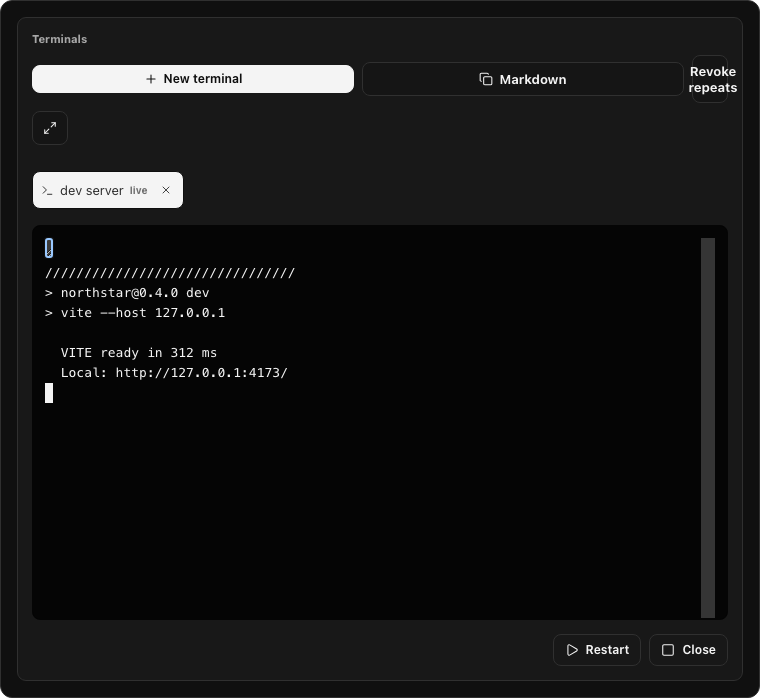
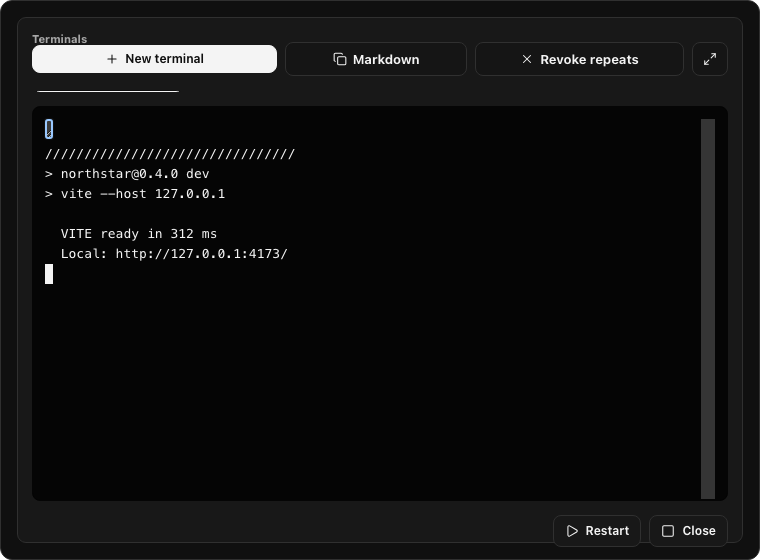
docs: showcase focused app features

diff --git a/e2e/harness/scenarios/readme-chat.tsx b/e2e/harness/scenarios/readme-chat.tsx
@@ -1,0 +1,111 @@
+import React from "react";
+import { RoomChatPanel, type RoomChatMessageDisplay } from "../../../apps/desktop/src/components/RoomChatPanel";
+import type { CodexActivity } from "../../../apps/desktop/src/types";
+
+export const description = "The production room chat shows a teammate request and Codex work in dark mode.";
+export const mockedBoundaries = ["Codex app-server event delivery", "MLS encryption and relay persistence"] as const;
+
+const noop = () => undefined;
+const now = "2026-07-15T18:00:00.000Z";
+const messages: RoomChatMessageDisplay[] = [
+  {
+    id: "teammate-request",
+    author: "Maya",
+    role: "human",
+    body: "Can you tighten the empty state and verify the preview at mobile width?",
+    time: "11:42",
+    selected: false,
+    attachments: [],
+    reactions: [{ emoji: "👍", count: 2, reacted: true }]
+  },
+  {
+    id: "codex-result",
+    author: "Codex via Avery",
+    role: "codex",
+    body: "Updated the empty state and added a focused responsive test. The preview now stays readable down to 360 px.",
+    time: "11:44",
+    selected: false,
+    attachments: [],
+    reactions: []
+  }
+];
+const activities: CodexActivity[] = [
+  {
+    eventType: "codex.activity",
+    activityId: "responsive-edit",
+    turnId: "readme-turn",
+    itemId: "responsive-edit",
+    kind: "file_change",
+    status: "completed",
+    title: "Updated the responsive empty state",
+    details: {
+      type: "file_change",
+      changes: [
+        { path: "src/components/EmptyState.tsx", action: "update", diff: "+ <p>Start by inviting your team.</p>" },
+        { path: "test/empty-state.test.tsx", action: "create", diff: "+ test('fits mobile width', ...);" }
+      ]
+    },
+    startedAt: now,
+    updatedAt: now,
+    host: "Avery",
+    hostUserId: "github:avery"
+  }
+];
+
+export default function ReadmeChatScenario() {
+  return (
+    <section className="readme-chat-surface" aria-label="Shared Codex room chat feature">
+      <RoomChatPanel
+        messages={messages}
+        codexActivities={activities}
+        approvalVisible={false}
+        approvalSummary={{
+          messages: "0",
+          attachments: "None",
+          sandbox: "Workspace write",
+          highPrivilegeLabels: [],
+          riskFlags: []
+        }}
+        isActiveHost
+        codexRunning={false}
+        canApproveCodex
+        canUseChat
+        canSendMessage
+        roomLocked={false}
+        lockedPlaceholder="Room locked"
+        chatEnabled
+        draft=""
+        pendingAttachments={[]}
+        replyTarget={null}
+        roomGoal={null}
+        localPreviewCards={[]}
+        pendingAttachmentSummary="0/5 files"
+        markdownSelectionMode={false}
+        onToggleMessageSelection={noop}
+        onCopyMessageMarkdown={noop}
+        onOpenAttachment={noop}
+        onToggleReaction={noop}
+        onEditMessage={noop}
+        onDeleteMessage={noop}
+        onDenyApproval={noop}
+        onApproveApproval={noop}
+        onInvokeCodex={noop}
+        onRemovePendingAttachment={noop}
+        onPauseGoal={noop}
+        onResumeGoal={noop}
+        onEditGoal={noop}
+        onDeleteGoal={noop}
+        onTickGoalElapsed={noop}
+        onOpenLocalPreview={noop}
+        onCopyLocalPreviewLink={noop}
+        onStopLocalPreview={noop}
+        onOpenFileSelector={noop}
+        onReplyToMessage={noop}
+        onCancelReply={noop}
+        onCancelQueuedCodexTurn={noop}
+        onDraftChange={noop}
+        onSendMessage={noop}
+      />
+    </section>
+  );
+}

diff --git a/e2e/harness/styles.css b/e2e/harness/styles.css
@@ -27,33 +27,25 @@ html[data-theme="dark"][data-presentation="readme"] #root {
 }
 
 .readme-feature {
-  box-sizing: content-box;
-  width: min(720px, calc(100vw - 120px));
+  box-sizing: border-box;
+  width: min(760px, calc(100vw - 120px));
+  height: 560px;
   margin: 0 auto;
   padding: 0;
   overflow: visible;
   background: transparent;
 }
 
-.readme-feature[data-scenario="codex-chat-parity"] {
-  width: min(920px, calc(100vw - 120px));
-}
-
-.readme-feature[data-scenario="readme-browser"],
-.readme-feature[data-scenario="readme-terminal"] {
-  width: min(760px, calc(100vw - 120px));
-}
-
+.readme-chat-surface,
 .readme-browser-surface,
 .readme-terminal-surface {
+  box-sizing: border-box;
+  width: 100%;
+  height: 100%;
   overflow: hidden;
   border: 1px solid var(--border);
   border-radius: 12px;
   background: var(--surface);
-}
-
-.readme-browser-surface {
-  height: 560px;
 }
 
 .readme-browser-surface .browser-panel.browser-open {
@@ -65,7 +57,16 @@ html[data-theme="dark"][data-presentation="readme"] #root {
 }
 
 .readme-terminal-surface .terminal-panel {
+  height: 100%;
   margin: 0;
+}
+
+.readme-terminal-surface .terminal-panel .panel-title-actions {
+  grid-template-columns: minmax(0, 1.35fr) minmax(0, 1fr) minmax(0, 1.15fr) 36px;
+}
+
+.readme-chat-surface .chat-panel {
+  height: 100%;
 }
 
 .readme-presentation .e2e-chat-parity {

diff --git a/CONTRIBUTING.md b/CONTRIBUTING.md
@@ -171,6 +171,14 @@ declare the same minimum window and record any reset.
 
 `ci.yml` contains fast blocking checks: workspace lint/type/test/build, relay authorization coverage, per-file desktop invite and host-handoff coverage floors, and Rust formatting/Clippy/tests. `journeys.yml` runs UI, deterministic security, native two-client, and macOS package evidence on `main`, tags, schedules, and pull requests that change executable product or journey code. Documentation-only edits do not start product journeys, and generated prose is not a merge gate. Coverage and journey jobs are controls that can fail; CI does not create report-only or routing-only jobs that look like verification.
 
+Desktop source files have an advisory 400-line ESLint ceiling. A warning names the
+specific file and overage so the next related change can extract a cohesive
+component or application action; warnings are visible but do not fail CI. Do not
+silence the warning by excluding or renaming a file. Journey path filters stay
+broad for executable product changes: timing failures are fixed at their
+polling/state boundary rather than worked around by narrowing triggers or blind
+reruns.
+
 Mutation testing, parser fuzzing, extended supply-chain scans, reproducibility comparisons, soak/restore drills, and the scheduled macOS two-client run are advisory or scheduled evidence. The relay mutation policy preserves the measured `authz.ts` 100%/zero-survivor baseline and the existing 60% score/survivor ceilings for session, WebSocket-admission, and room-route decisions, with an explicit 80% target. Each weekly shard fails visibly on tooling errors or regression below its checked-in baseline. The first run each month emits a reviewable candidate that advances score floors in five-point steps and never increases a survivor ceiling; maintainers review and commit justified advances rather than letting automation rewrite policy silently. Investigate regressions; do not turn them into a Tuesday bugfix blocker without deleting or demoting an existing blocking check. No new blocking check may be added without removing or demoting another one.
 
 The deterministic security journey fails if its Rust production boundary or

diff --git a/README.md b/README.md
@@ -27,11 +27,13 @@
 Start a private project room, invite people you trust, and work with Codex as a team. Everyone can follow the conversation, propose the next turn, inspect structured progress, review changes, and use room-scoped files, diffs, terminals, browser previews, Git, and GitHub workflows. One active host supplies the project, local tools, credentials, and Codex account; an explicit handoff can move that responsibility to another verified member.
 
 <p align="center">
-  <img src="docs/assets/screens/codex-room.png" width="64%" alt="Team chat with a Codex result and structured activity inside a shared room">
+  <img src="docs/assets/screens/room-chat.png" width="64%" alt="Team chat with a Codex result and structured activity inside a shared room">
 </p>
 <p align="center">
-  <img src="docs/assets/screens/room-browser.png" width="49%" alt="An approved local project preview open in the room browser">
-  <img src="docs/assets/screens/room-terminal.png" width="49%" alt="A live host-controlled development terminal shared with the room">
+  <img src="docs/assets/screens/room-browser.png" width="64%" alt="An approved local project preview open in the room browser">
+</p>
+<p align="center">
+  <img src="docs/assets/screens/room-terminal.png" width="64%" alt="A live host-controlled development terminal shared with the room">
 </p>
 
 multAIplayer does not provide or replace Codex's system or developer instructions. It connects to the standard open-source Codex app-server running on the active host. An approved room turn becomes ordinary user-turn input: the app formats the selected conversation and attachments, and explicitly labels teammate, file, terminal, browser, and tool material as untrusted context.

diff --git a/docs/if-unmaintained.md b/docs/if-unmaintained.md
@@ -1,6 +1,6 @@
 # If this project goes unmaintained
 
-multAIplayer is currently maintained by one person. If releases, security fixes, or the hosted relay stop, the repository remains available under the Apache-2.0 license, but nobody is promising continued hosted infrastructure or compatibility with future operating systems and upstream services.
+multAIplayer is currently maintained by one person, Maddie. D. Reese. If releases, security fixes, or the hosted relay stop, the repository remains available under the Apache-2.0 license, but nobody is promising continued hosted infrastructure or compatibility with future operating systems and upstream services.
 
 ## Preserve and export your data
 

diff --git a/e2e/README.md b/e2e/README.md
@@ -21,6 +21,8 @@ Run Chromium UI contracts with `npm run test:e2e`, the restart-proxy harness con
 
 The Codex chat contracts in [`codex-chat-parity.spec.ts`](codex-chat-parity.spec.ts) and [`raw-reasoning-setting.spec.ts`](raw-reasoning-setting.spec.ts) exercise the production chat and model-settings components. They verify human and Codex code blocks, a validated generated raster attachment, nested reasoning/raw-reasoning disclosures, edits, tools, subagent spawning, and the off-by-default room-sharing control and warning. They are rendering and interaction evidence; native projector tests separately verify that raw content is suppressed unless the setting is enabled, and the app-server/image/blob paths retain their separately stated boundaries.
 
+`npm run docs:screenshots` renders the README's chat, browser, and terminal cards from focused harness scenarios that mount the production components in dark mode. Each capture is a transparent 760×560 feature surface; onboarding and full-app framing are intentionally excluded. Edit the scenario/component source and regenerate the assets instead of replacing them with manually cropped website or app screenshots.
+
 The six-case onboarding contract in [`onboarding.spec.ts`](onboarding.spec.ts) renders the production assistant, checklist, Help recovery, and first-turn guide. It verifies equal keyboard-accessible create/join entry, persisted Explore/checklist state, Help reopen/reset, direct readiness repair, partial team/room retry without duplication, safe-default disclosure, blocking host-device verification without optimistic unlock, and draft-only starter prompts. Its visible boundary banner labels relay workspace operations, GitHub/ChatGPT authentication, native Codex/account/folder behavior, MLS verification/host approval, encrypted persistence, and Codex execution as simulated. Desktop unit tests separately cover the versioned storage allowlist, production adapter delegation, and fixed error projection.
 
 The Linux two-shell journey now starts from focused clean-profile Welcome surfaces. The host selects create, verifies relay/GitHub readiness, advances past live third-party ChatGPT authorization through an explicit test transition, submits the production workspace/room form, accepts safe defaults, and enters the room. The guest selects join, proves local Codex is nonblocking, and submits the canonical HTTPS invitation through the production onboarding form before the real approval/MLS journey continues. GitHub identity still comes from the loopback-only relay debug fixture and the project path is typed rather than selected through the platform picker, so this is production-handler and native integration evidence—not live-provider or input-level folder-picker evidence. The packaged macOS smoke still asserts Welcome and chooses Explore; it is not macOS create/join evidence.